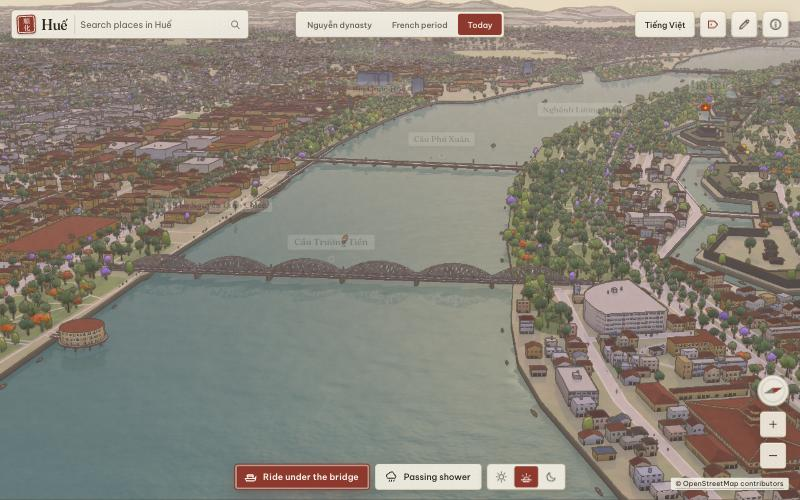
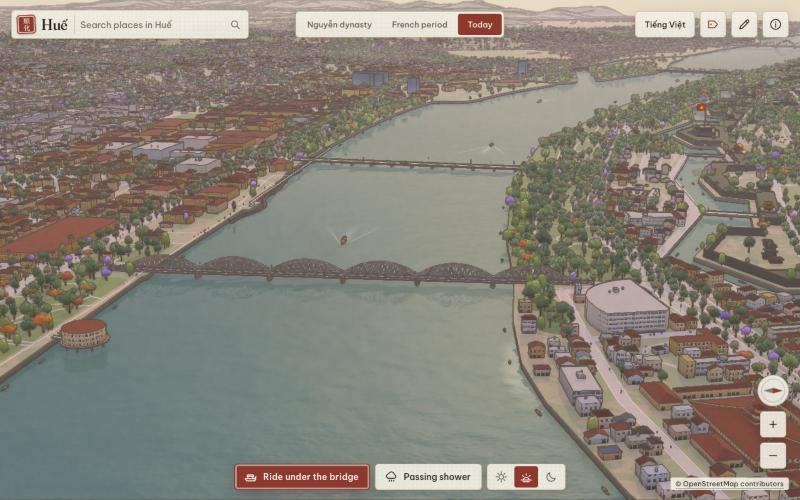
Drawn roads and ground: map-style kerb and edge lines, grass and earth washes, pen marks on grass; open forecourts
KIND.LINE faces are a kerb joint in the realistic look and the pen in the drawn one; outlines go down before the
fills so junctions stay open. Trees keep clear of the central-axis monuments.

diff --git a/src/geo/materials.js b/src/geo/materials.js
@@ -127,7 +127,7 @@ vec3 hueRoomC = vec3( 1.0 ); // the room seen through a lit window
   hueRough = 0.8;
 #else
 
-if ( ( vKind > 0.5 && vKind < 1.5 ) || ( vKind > 7.5 && vKind < 8.5 ) || vKind > 9.5 ) {
+if ( ( vKind > 0.5 && vKind < 1.5 ) || ( vKind > 7.5 && vKind < 8.5 ) || ( vKind > 9.5 && vKind < 11.5 ) ) {
   // ---------------- facade (kind 8: institutions — the same bays on every floor, no shopfronts) ----------------
   // kind 10: Indochine — arched openings, louvred shutters, white trim. kind 11: modern — ribbon glazing, balconies
   bool colonial = vKind > 9.5 && vKind < 10.5;
@@ -321,6 +321,13 @@ if ( ( vKind > 0.5 && vKind < 1.5 ) || ( vKind > 7.5 && vKind < 8.5 ) || vKind >
   diffuseColor.rgb *= 0.82 + 0.34 * g;
   diffuseColor.rgb = mix( diffuseColor.rgb, diffuseColor.rgb * vec3( 1.1, 1.04, 0.8 ), smoothstep( 0.55, 0.9, g ) * 0.4 );
   hueRough = 0.96;
+  if ( uLook > 0.5 ) {
+    // drawn grass: small pen marks scattered over the wash
+    vec2 gc = vWPos.xz / 2.3, gi = floor( gc );
+    vec2 gf = fract( gc ) - 0.5 + ( vec2( hueHash( gi + 3.1 ), hueHash( gi + 7.7 ) ) - 0.5 ) * 0.5;
+    float gtick = ( 1.0 - smoothstep( 0.02, 0.055, abs( gf.y + 0.08 - abs( gf.x ) * 1.4 ) ) ) * step( abs( gf.x ), 0.13 ) * step( 0.6, hueHash( gi ) ) * ( 1.0 - smoothstep( 0.12, 0.45, fwidth( gc.x ) + fwidth( gc.y ) ) );
+    diffuseColor.rgb *= 1.0 - 0.34 * gtick;
+  }
 } else if ( vKind > 5.5 && vKind < 6.5 ) {
   // ---------------- paving ----------------
   diffuseColor.rgb *= 0.93 + 0.1 * hueNoise( vWPos.xz * 0.7 ) + 0.04 * hueNoise( vWPos.xz * 7.0 );
@@ -361,6 +368,11 @@ if ( ( vKind > 0.5 && vKind < 1.5 ) || ( vKind > 7.5 && vKind < 8.5 ) || vKind >
   float c = hueNoise( vWPos.xz * 0.5 ) * 0.6 + hueNoise( vWPos.xz * 3.0 ) * 0.4;
   diffuseColor.rgb *= 0.84 + 0.26 * c;
   hueRough = 0.9;
+} else if ( vKind > 11.5 ) {
+  // ---------------- a line laid on the ground (kerbs, road edges): a stone joint, or the pen in the drawn look ----------------
+  // once a pixel covers more than the line is wide it would only sparkle, so it thins out into what lies under it
+  float lpx = fwidth( vWPos.x ) + fwidth( vWPos.z );
+  diffuseColor.rgb = mix( diffuseColor.rgb, vec3( 0.075, 0.055, 0.05 ), uLook * 0.8 * ( 1.0 - smoothstep( 0.5, 2.2, lpx ) ) );
 } else {
   diffuseColor.rgb *= mix( 1.0, mix( 0.78, 1.0, smoothstep( 0.0, 5.0, hueH ) ), hueWall * step( 0.0, hueH ) );
 }
@@ -524,18 +536,28 @@ export function landMaterial(color, turf = false, bank = false) {
         `#include <common>
         varying vec3 vWPos; uniform float uWet; uniform float uLook;
         float lHash( vec2 p ) { p = fract( p * vec2( 123.34, 456.21 ) ); p += dot( p, p + 45.32 ); return fract( p.x * p.y ); }
-        float lNoise( vec2 p ) { vec2 i = floor( p ), f = fract( p ); f = f * f * ( 3.0 - 2.0 * f );
-          return mix( 0.5, mix( mix( lHash( i ), lHash( i + vec2( 1.0, 0.0 ) ), f.x ), mix( lHash( i + vec2( 0.0, 1.0 ) ), lHash( i + vec2( 1.0, 1.0 ) ), f.x ), f.y ), 1.0 - uLook * 0.78 ); }`,
+        float lNoiseRaw( vec2 p ) { vec2 i = floor( p ), f = fract( p ); f = f * f * ( 3.0 - 2.0 * f );
+          return ( mix( mix( lHash( i ), lHash( i + vec2( 1.0, 0.0 ) ), f.x ), mix( lHash( i + vec2( 0.0, 1.0 ) ), lHash( i + vec2( 1.0, 1.0 ) ), f.x ), f.y ) ); }
+        // the drawn look lays flat washes: tonal drift settles most of the way to its middle
+        float lNoise( vec2 p ) { return mix( lNoiseRaw( p ), 0.5, uLook * 0.78 ); }`,
       )
       .replace(
         '#include <color_fragment>',
         `#include <color_fragment>
         // gardens and bare earth: Huế's plots are more green than paved
         float lg = lNoise( vWPos.xz * 0.012 ) * 0.5 + lNoise( vWPos.xz * 0.09 ) * 0.3 + lNoise( vWPos.xz * 0.9 ) * 0.2;
-        float grass = smoothstep( 0.38, 0.62, lNoise( vWPos.xz * 0.035 + 4.0 ) * 0.6 + lNoise( vWPos.xz * 0.21 ) * 0.4 );
+        float grassN = lNoiseRaw( vWPos.xz * 0.035 + 4.0 ) * 0.6 + lNoiseRaw( vWPos.xz * 0.21 ) * 0.4;
+        // drawn: grass and bare earth are two washes with an edge between them, not a gradient
+        float grass = mix( smoothstep( 0.38, 0.62, grassN ), smoothstep( 0.485, 0.515, grassN ), uLook );
         vec3 turf = vec3( 0.37, 0.5, 0.24 ) * ( 0.8 + 0.4 * lNoise( vWPos.xz * 1.3 ) );
         #ifdef HUE_TURF
           diffuseColor.rgb = mix( diffuseColor.rgb, turf, grass * 0.62 );
+          if ( uLook > 0.5 ) {
+            vec2 gc = vWPos.xz / 2.3, gi = floor( gc );
+            vec2 gf = fract( gc ) - 0.5 + ( vec2( lHash( gi + 3.1 ), lHash( gi + 7.7 ) ) - 0.5 ) * 0.5;
+            float gtick = ( 1.0 - smoothstep( 0.02, 0.055, abs( gf.y + 0.08 - abs( gf.x ) * 1.4 ) ) ) * step( abs( gf.x ), 0.13 ) * step( 0.6, lHash( gi ) ) * ( 1.0 - smoothstep( 0.12, 0.45, fwidth( gc.x ) + fwidth( gc.y ) ) );
+            diffuseColor.rgb *= 1.0 - 0.3 * gtick * grass;
+          }
         #endif
         diffuseColor.rgb *= 0.86 + 0.26 * lg;
         #ifdef HUE_BANK

diff --git a/src/geo/city.js b/src/geo/city.js
@@ -212,7 +212,18 @@ function buildRoads(data, group, structures) {
     else if (r.c <= 1) r.era = southBank(x, z) || inHills(x, z) ? 1 : 0;
     else { const b = plotBorn(x, z, 7 + (i % 5)); r.era = r.c === 2 ? Math.min(b, 1) : b; }
   });
-  for (const r of roads) if (!r.bridge && r.c <= 3) { B.span = span(r.era); ribbon(B, r.pts, ROAD_W[r.c] + (r.c <= 2 ? 3.6 : 2.4), y, casing); }
+  // Edges are drawn the way a map draws them: every outline first, then the fills from minor to major, so a side
+  // street opens into the road it meets and no line runs across a junction. KIND.LINE is a kerb joint in the
+  // realistic look and the pen in the drawn one.
+  const pavW = (c) => ROAD_W[c] + (c <= 2 ? 3.6 : 2.4);
+  const kerb = shade(casing, 0.8), verge = shade(casing, 0.9);
+  B.kind = KIND.LINE;
+  for (const r of roads) if (!r.bridge && r.c <= 3) { B.span = span(r.era); ribbon(B, r.pts, pavW(r.c) + 0.5, y - 0.005, verge); }
+  B.kind = KIND.ROAD;
+  for (const r of roads) if (!r.bridge && r.c <= 3) { B.span = span(r.era); ribbon(B, r.pts, pavW(r.c), y, casing); }
+  B.kind = KIND.LINE;
+  for (const r of roads) if (!r.bridge && r.c <= 4) { B.span = span(r.era); ribbon(B, r.pts, ROAD_W[r.c] + (r.c <= 2 ? 0.56 : 0.44), y + 0.005, r.c <= 3 ? kerb : shade(cols[4], 0.85)); }
+  B.kind = KIND.ROAD;
   for (let c = 5; c >= 0; c--) for (const r of roads) if (r.c === c && !r.bridge) { B.span = span(r.era); ribbon(B, r.pts, ROAD_W[c], y + 0.01, cols[c]); }
   B.span = span(2); // painted lane markings are today's
   const paint = hex('#f4eedd');

diff --git a/src/geo/foliage.js b/src/geo/foliage.js
@@ -503,6 +503,8 @@ export function buildTrees(data, group, off = null) {
   const low = quality.low;
   const geos = { spreading: spreadingGeometry(low), upright: uprightGeometry(low), flamboyant: flamboyantGeometry(low), willow: willowGeometry(low), pine: pineGeometry(low), palm: palmGeometry(low) };
   const nearWater = waterNear(data);
+  // illustrative planting must not stand between the visitor and the monuments of the central axis
+  const forecourts = data.places.filter((p) => ['ngomon', 'thaihoa', 'kydai', 'phuvanlau', 'nghenhluong'].includes(p.id)).map((p) => [p.x / 10, p.z / 10]);
 
   const m = new THREE.Matrix4(), q = new THREE.Quaternion(), s = new THREE.Vector3(), p = new THREE.Vector3(), up = new THREE.Vector3(0, 1, 0);
   const c = new THREE.Color();
@@ -524,6 +526,7 @@ export function buildTrees(data, group, off = null) {
       const r = rand(i, 61);
       const x = a[i * 4] / 10, z = a[i * 4 + 1] / 10;
       if (off && off(x, z, 2.2 * sc)) continue; // a landmark model stands here
+      if (forecourts.some((c) => (x - c[0]) ** 2 + (z - c[1]) ** 2 < 46 * 46)) continue; // the great halls stand in open courts
       let type = kind === 3 ? 'pine' : kind === 2 ? 'flamboyant' : r < 0.085 && sc < 1.25 ? 'palm' : r < 0.42 ? 'upright' : 'spreading';
       let lean = null;
       if (type === 'spreading' || type === 'upright') {

diff --git a/src/geo/buf.js b/src/geo/buf.js
@@ -11,7 +11,7 @@ export const shade = (c, k) => [c[0] * k, c[1] * k, c[2] * k];
 
 // What a face is made of. The fragment shader paints the matching surface detail
 // (window bays, roof tiles, brick courses…) so geometry stays light.
-export const KIND = { PLAIN: 0, FACADE: 1, TILE: 2, FLAT: 3, MASONRY: 4, GROUND: 5, ROAD: 6, TIMBER: 7, CIVIC: 8, GLAZED: 9, COLONIAL: 10, MODERN: 11 };
+export const KIND = { PLAIN: 0, FACADE: 1, TILE: 2, FLAT: 3, MASONRY: 4, GROUND: 5, ROAD: 6, TIMBER: 7, CIVIC: 8, GLAZED: 9, COLONIAL: 10, MODERN: 11, LINE: 12 };
 
 // When a piece of the model exists: from era `since` through era `until` (0 Nguyễn, 1 French period, 2 today).
 // Encoded so that 0 means "always", which is also what geometry without the attribute reads as.

diff --git a/PROGRESS.md b/PROGRESS.md
@@ -172,8 +172,15 @@
     as one shape, so the pen goes round it. `materials.js`: `hueNoise` / `lNoise` settle toward their middle tone so
     weathering becomes flat wash; tile roofs are hatched down the slope; surfaces are matt. `water.js` (`uLook`): one
     jade wash, a faint mirror, pale strokes on the crests. `mood.js` (`state.look`): less sun, more fill.
-    Checked: opening view, Thái Hòa, Phố Tây, Trường Tiền at night, Ngọ Môn in rain, the 1885 era. Not yet drawn:
-    road and kerb edges (roads are flat overlays, so they get no line), ground detail up close.
+    Roads and ground: `KIND.LINE` (12) is a face that is a kerb joint in the realistic look and the pen in the drawn
+    one; `buildRoads` lays outlines under the pavements and carriageways map-fashion (all outlines, then fills from
+    minor to major), so side streets open into the roads they meet. Open land is two washes, grass and earth, with
+    an edge between them (`grassN` in `landMaterial`), and grass carries small pen marks (also on parks, kind 5).
+    Trees keep 46 m clear of Ngọ Môn, Thái Hòa, Kỳ Đài, Phu Văn Lâu and Nghênh Lương Đình (`forecourts` in
+    `foliage.js`).
+    Checked: opening view, Thái Hòa, Phố Tây, Nguyễn Đình Chiểu, Ngọ Môn (also in rain), Trường Tiền at night, the
+    1885 era. Not checked: the boat ride, the 1935 era. Not drawn: paving joints on pavements, crossings; footpaths
+    (class 5) have no edge line.
   - Shadows (`src/env/csm.js`): boxes centred on the point of attention, not view-frustum slices. The sun keeps the
     wide map; a second unlit directional light carries a tight map (27 % of the width, 2048), chosen in the shader
     (`LIGHTS` in `materials.js`; the sun must stay directional light 0). Depth ranges hug the model, so the bias is
@@ -189,7 +196,7 @@
     Ngọ Môn's axis. Comparison frames: `docs/looks/`.
   - Frame cost at 1024×768 on this machine: about 13 ms before, 19 ms with both maps drawn every frame, 60 fps
     (16.3 ms by `requestAnimationFrame`) with alternate maps; about 15.5 ms in either look at 1280×800 (render plus a
-    forced read-back). Not measured on a phone.
+    forced read-back), 16.8 ms once the road outlines were added. Not measured on a phone.
 
 ## Not verified
 - The southern models were checked from the air only; causeway landing, the dragon's heading, Nam Giao's exact
